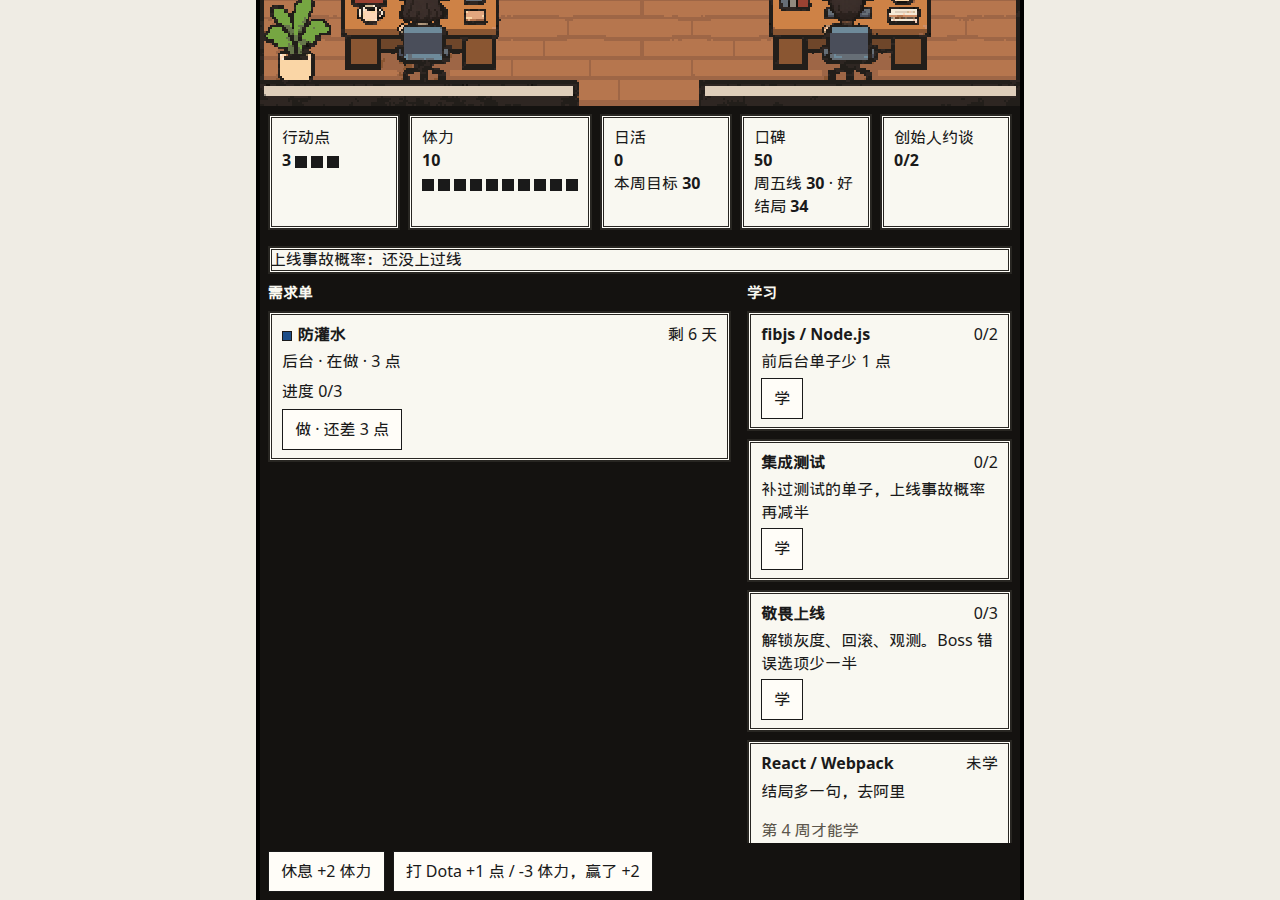
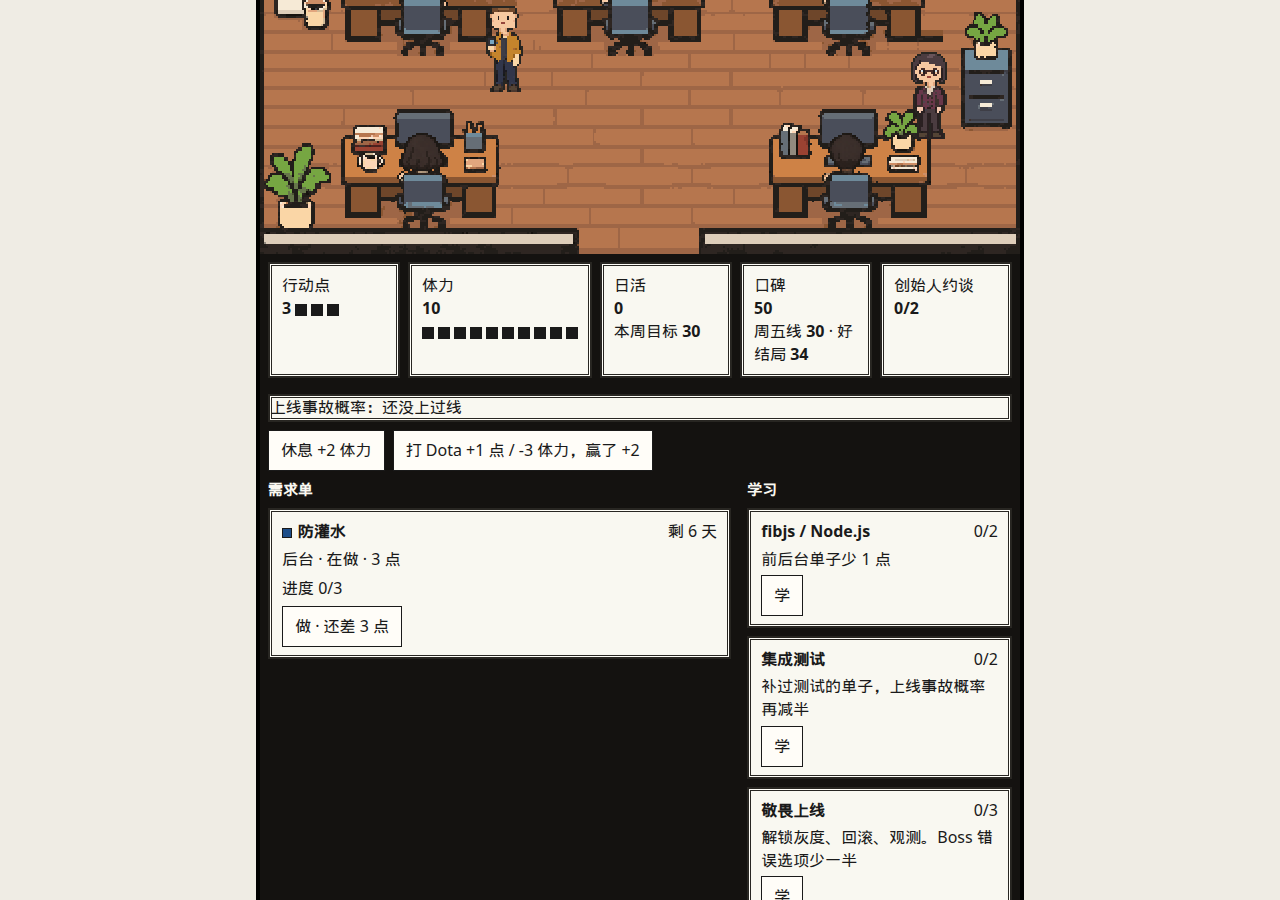
南京操作按钮改回文档流
休息、打 Dota、睡觉不再粘在屏幕底，改放在状态栏下面、需求单上面。滚动后点按钮和卡片标题，点到的是它们自己。

diff --git a/games/career-rpg/proto/nanjing/style.css b/games/career-rpg/proto/nanjing/style.css
@@ -195,15 +195,21 @@
 .screen .boss-card h2 { color: #1a1a1a; }
 
 .screen .board,
-.screen > .actions,
 .screen .offstage { padding: 0 8px; }
 
+.screen .actions {
+  position: static;
+  bottom: auto;
+  z-index: auto;
+}
+
 .screen > .actions {
-  position: sticky;
-  bottom: 0;
-  z-index: 3;
-  background: #141210;
-  padding: 8px;
+  position: static;
+  bottom: auto;
+  z-index: auto;
+  margin: 4px 8px 8px;
+  padding: 0;
+  background: transparent;
 }
 
 .screen > .actions button,
